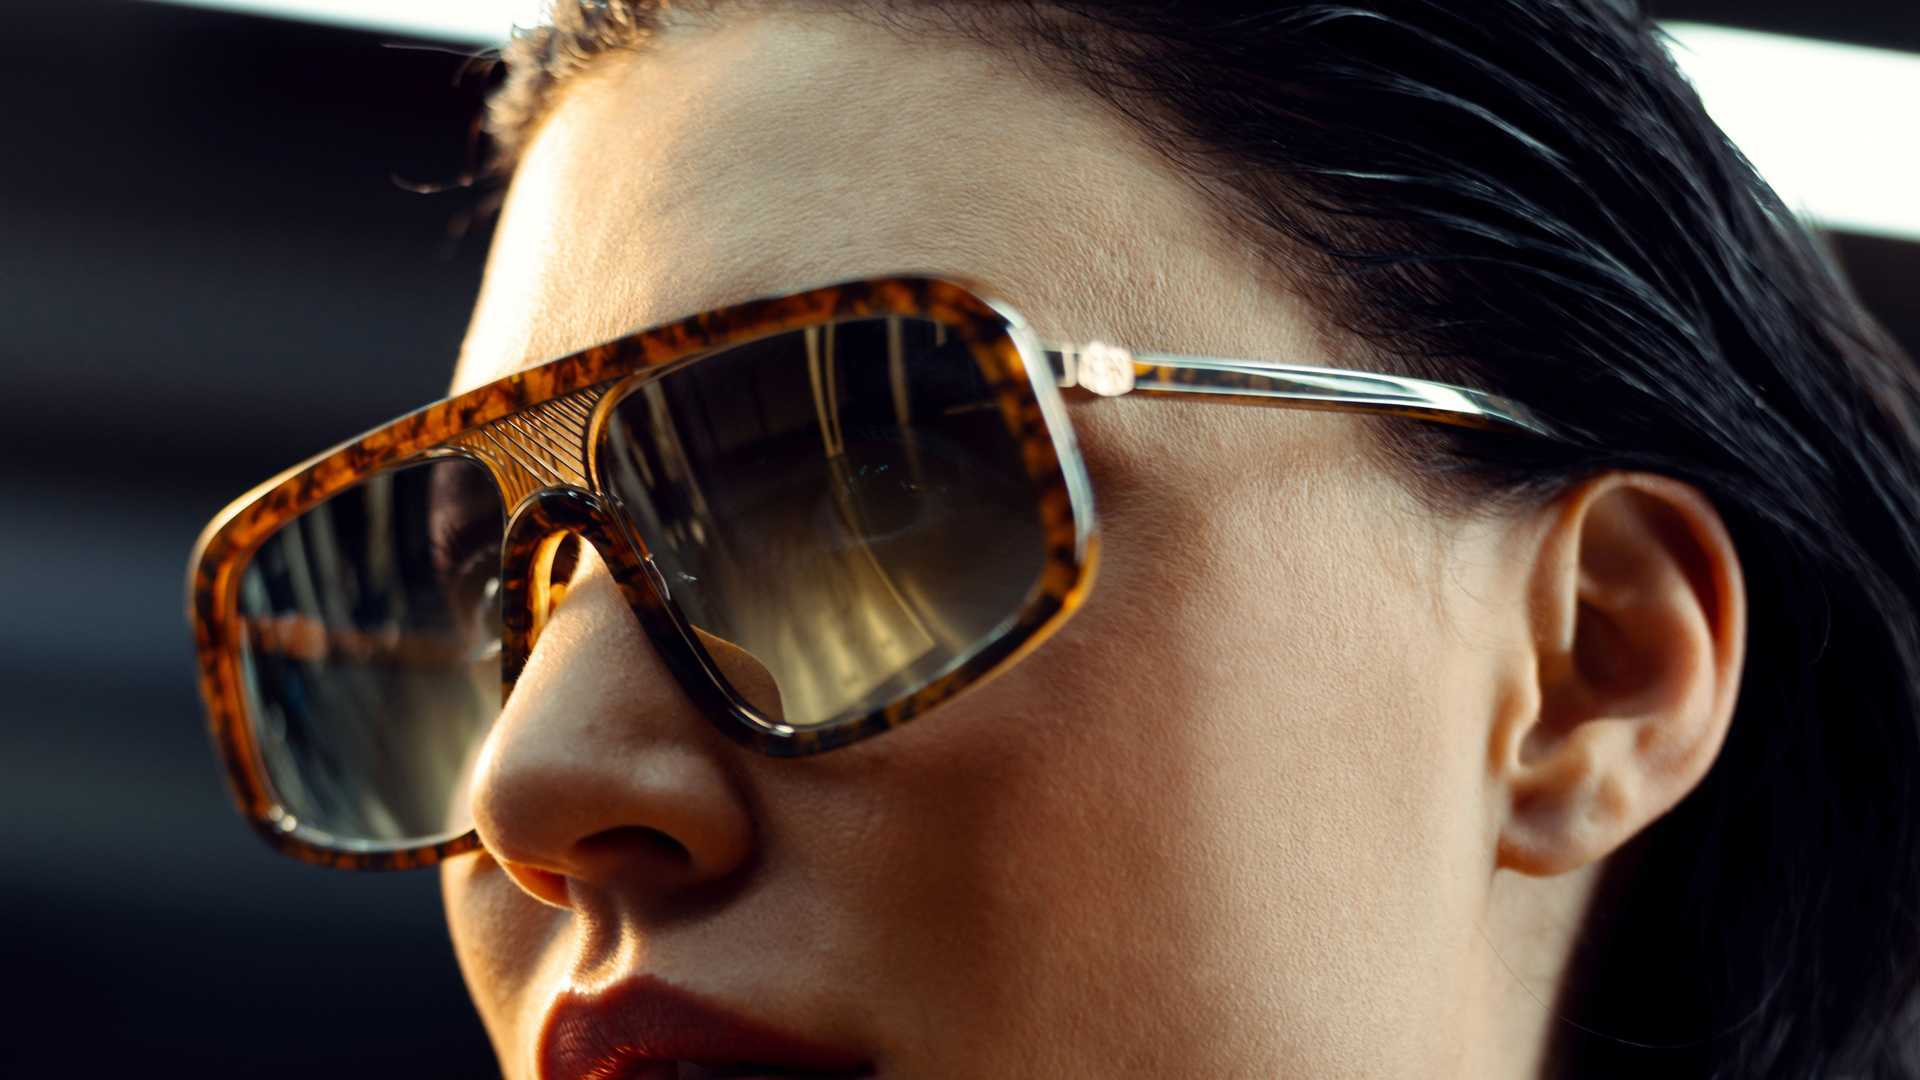
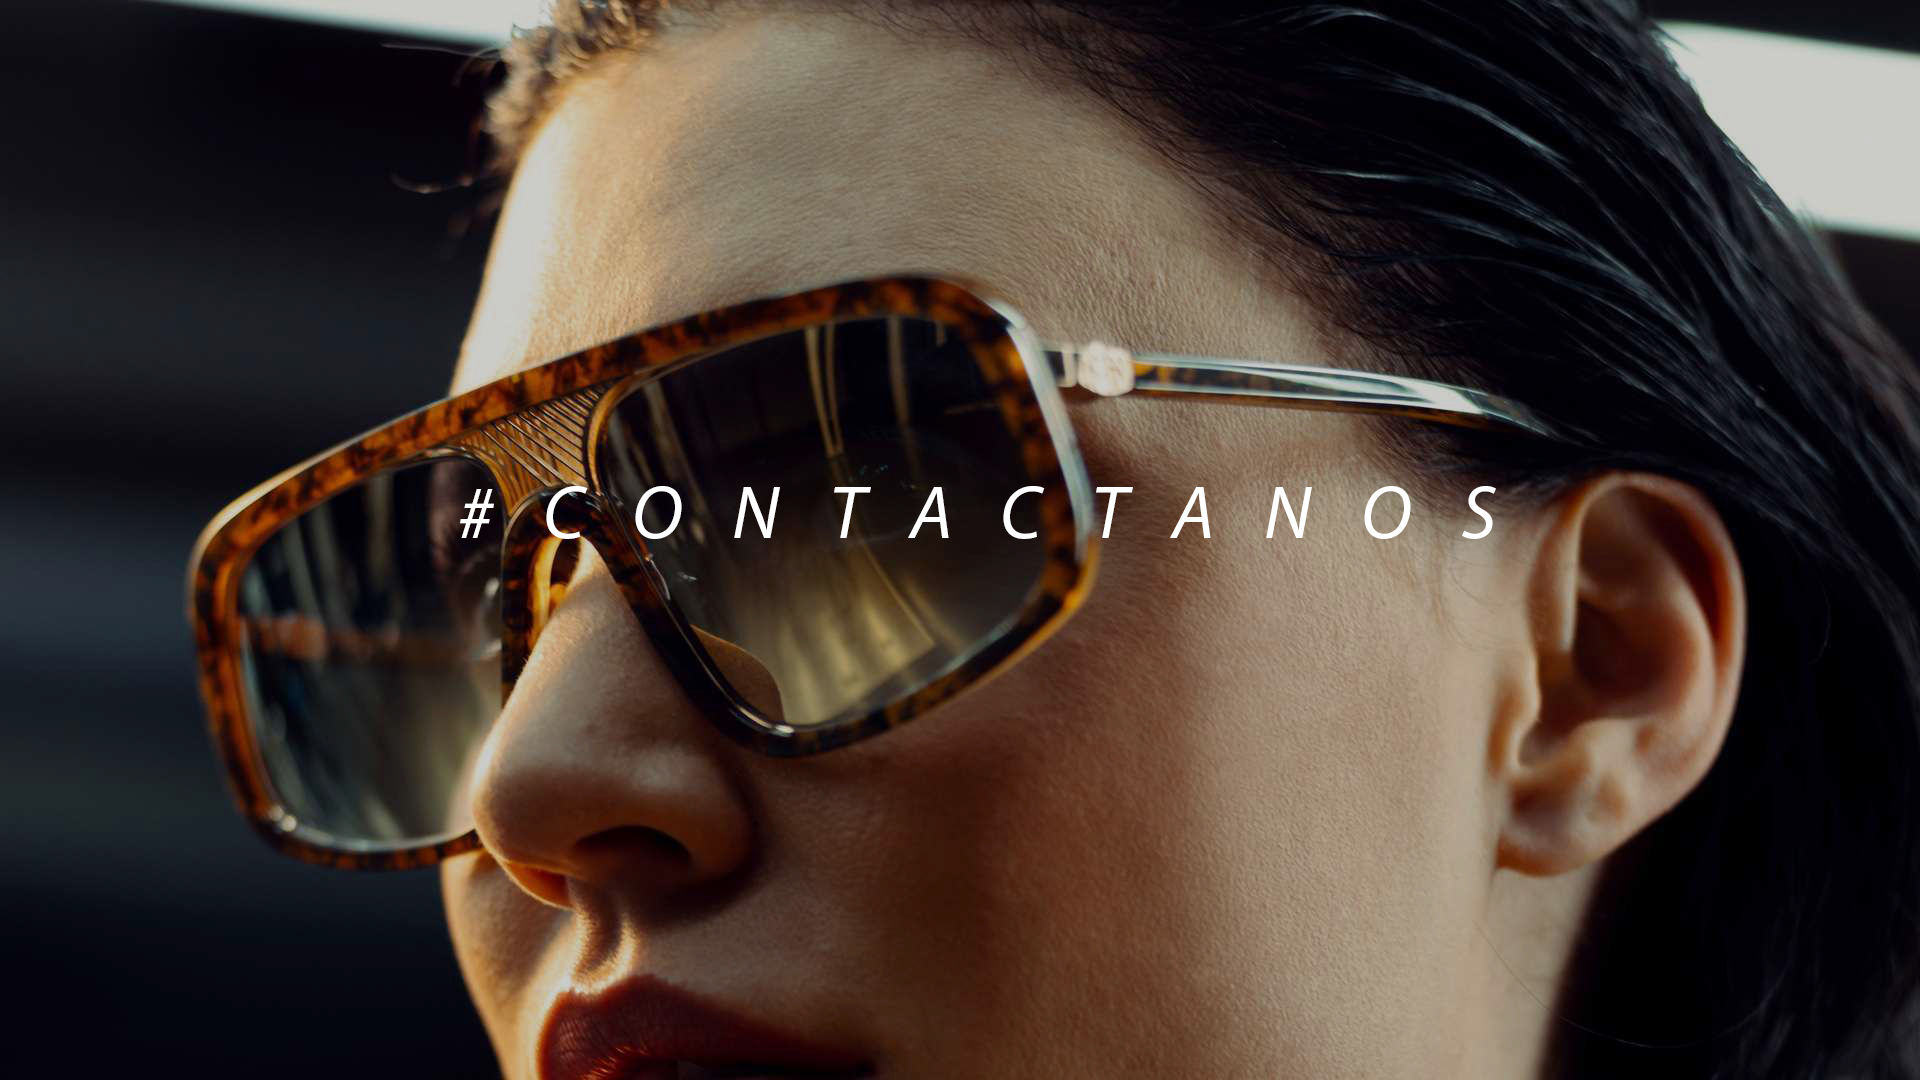
Commit final

diff --git a/index.html b/index.html
@@ -16,11 +16,17 @@
     src="https://kit.fontawesome.com/7675568d7c.js"
     crossorigin="anonymous"
     ></script>
+
+    <!---Link google font -------->
+    <link rel="preconnect" href="https://fonts.googleapis.com">
+    <link rel="preconnect" href="https://fonts.gstatic.com" crossorigin>
+    <link href="https://fonts.googleapis.com/css2?family=Lato:ital@1&display=swap" rel="stylesheet">
+
 </head>
 <body>
     <header>
         <div class="header">
-            <img class="logo" src="./Assets/opticaLogo.png" alt="logo"><a href="index.html"></a>
+            <a href="/index.html"><img class="logo" src="./Assets/opticaLogo.png" alt="logo"></a>
             <button class="openNavBtn" id="open"><i class="fa-solid fa-bars fa-beat" style="color: #ffffff;"></i></button>
             <nav class="nav" id="nav">
                 <button class="closeNavBtn" id="close"><i class="fa-solid fa-xmark fa-beat" style="color: #ffffff;"></i></button>
@@ -28,8 +34,8 @@
                     <div ><li><a href="#" class="btnSlideInside">Inicio</a></li></div>
                     <li><a href="./pages/Contacto.html" class="btnSlideInside">Contacto</a></li>
                     <li><a href="./pages/QuieneSomos.html" class="btnSlideInside">Quienes somos</a></li>
-                    <li><a href="#" class="btnSlideInside">Ubicacion</a></li>
-                    <li><a href="#" class="btnSlideInside">Productos</a></li>
+                    <li><a href="./pages/Ubicacion.html" class="btnSlideInside">Ubicacion</a></li>
+                    <li><a href="./pages/Productos.html" class="btnSlideInside">Productos</a></li>
                 </ul>
             </nav>
         </div>
@@ -56,19 +62,19 @@
               </div>
               <div class="carousel-inner carrouselSize">
                 <div class="carousel-item active">
-                  <img src="./Assets/carrousel1.jpg" class="d-block w-100 carrouselImg" alt="img1">
+                  <a href="./pages/Contacto.html"><img src="./Assets/carrousel1.jpg" class="d-block w-100 carrouselImg" alt="img1"></a>
                   <div class="carousel-caption d-none d-md-block ">
                     <h5 class="carrouselTittle">Contactanos</h5>
                   </div>
                 </div>
                 <div class="carousel-item">
-                  <img src="./Assets/carrousel2.jpg" class="d-block w-100 carrouselImg" alt="img2">
+                  <a href="./pages/QuieneSomos.html"><img src="./Assets/carrousel2.jpg" class="d-block w-100 carrouselImg" alt="img2"></a>
                   <div class="carousel-caption d-none d-md-block">
                     <h5 class="title">Horarios de atencion</h5>
                   </div>
                 </div>
                 <div class="carousel-item">
-                  <img src="./Assets/carrousel3.jpg" class="d-block w-100 carrouselImg" alt="img3">
+                  <a href="./pages/Ubicacion.html"><img src="./Assets/carrousel3.jpg" class="d-block w-100 carrouselImg" alt="img3"></a>
                   <div class="carousel-caption d-none d-md-block">
                     <h5 class="title">Donde nos encontramos</h5>
                   </div>

diff --git a/CSS/style.css b/CSS/style.css
@@ -2,6 +2,7 @@
     margin: 0;
     padding: 0;
     box-sizing: border-box;
+    font-family: 'Lato', sans-serif;
 }
 
 /* ----------------HEADER ----------------*/
@@ -154,9 +155,6 @@ header{
 /*------------CARROUSEL-----------------------*/
 .carrouselTittle{
     color: #e0e0e0;
-}
-.carrouselImg{
-    filter: brightness(50%);
 }
 .carousel slide{
     width: 100%;

diff --git a/pages/Productos.html b/pages/Productos.html
@@ -1,0 +1,11 @@
+<!DOCTYPE html>
+<html lang="en">
+<head>
+    <meta charset="UTF-8">
+    <meta name="viewport" content="width=device-width, initial-scale=1.0">
+    <title>Document</title>
+</head>
+<body>
+    <h1>Error 404. Not found </h1>
+</body>
+</html>

diff --git a/pages/Ubicacion.html b/pages/Ubicacion.html
@@ -1,0 +1,11 @@
+<!DOCTYPE html>
+<html lang="en">
+<head>
+    <meta charset="UTF-8">
+    <meta name="viewport" content="width=device-width, initial-scale=1.0">
+    <title>Document</title>
+</head>
+<body>
+    <h1>Error 404. Not found </h1>
+</body>
+</html>
